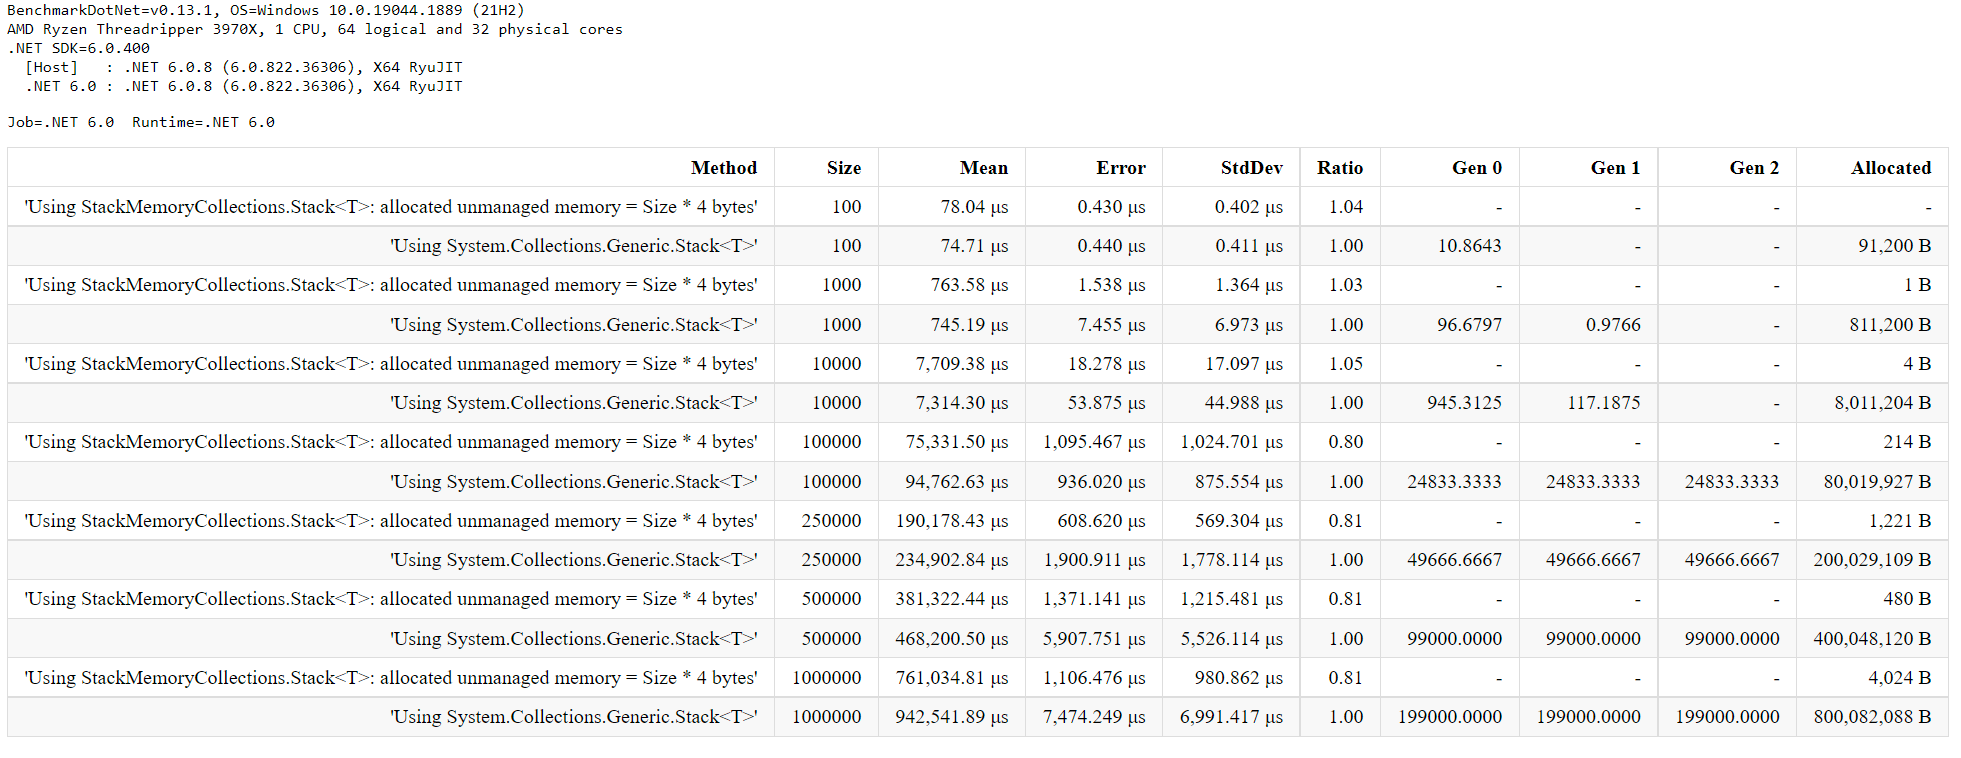
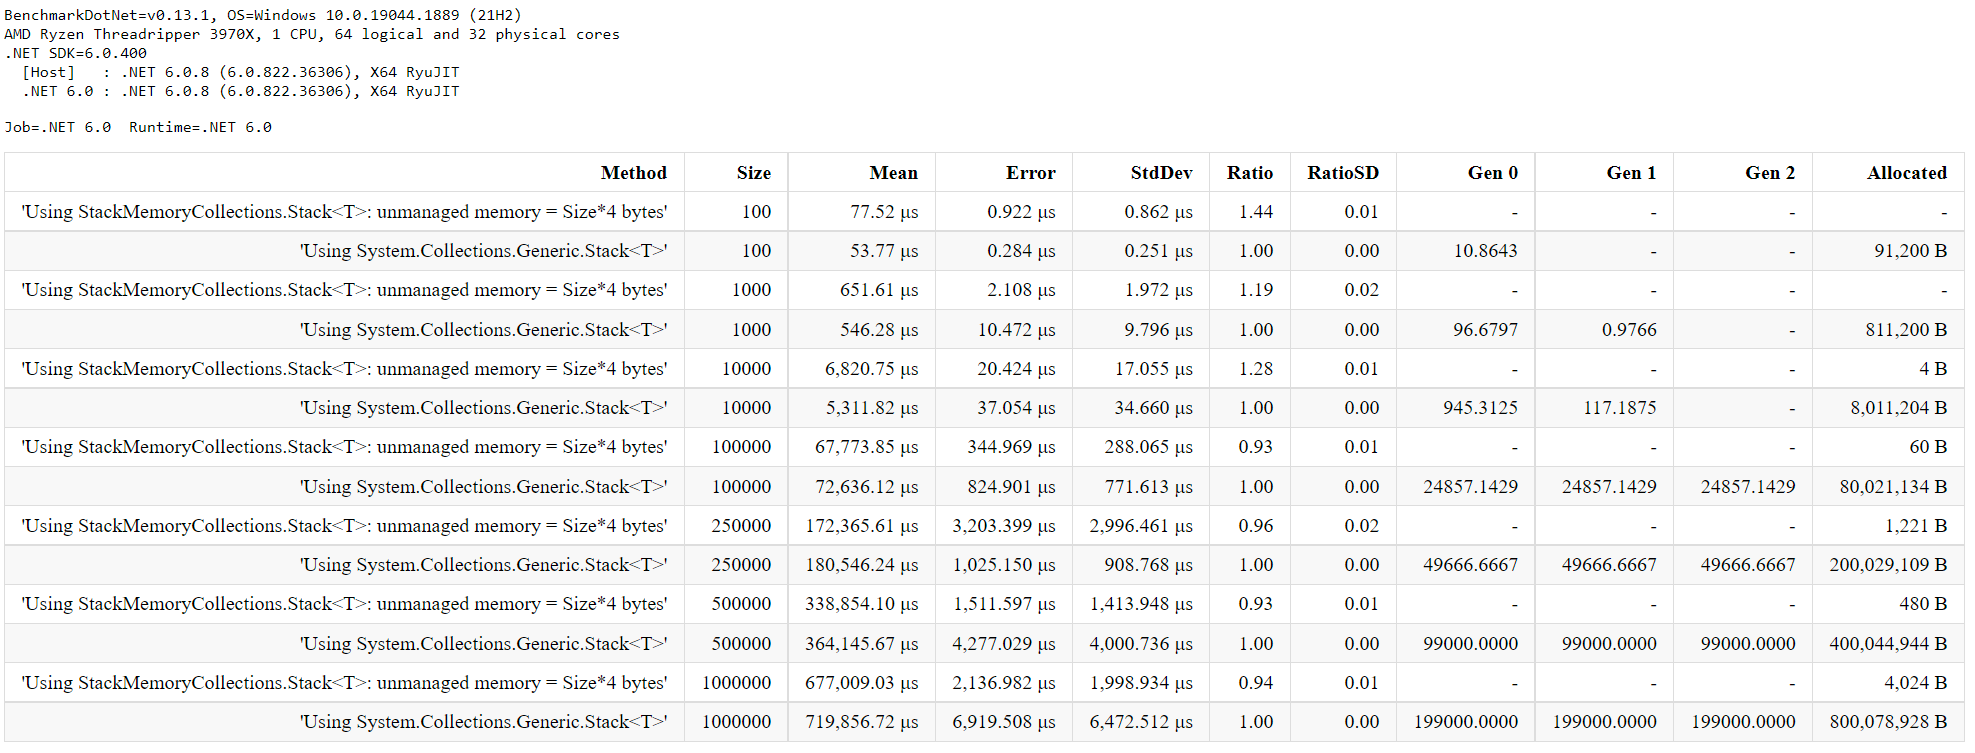
fix: memeory size

diff --git a/Src/Benchmarks/StackOfStructJob.cs b/Src/Benchmarks/StackOfStructJob.cs
@@ -1,6 +1,7 @@
 using BenchmarkDotNet.Attributes;
 using BenchmarkDotNet.Jobs;
 using StackMemoryCollections;
+using System.Runtime.InteropServices;
 
 namespace Benchmark
 {
@@ -19,19 +20,19 @@ namespace Benchmark
                 Int64 = int64;
             }
 
-            public int Int32;
             public long Int64;
+            public int Int32;
         }
 
         [Params(100, 1000, 10000, 100000, 250000, 500000, 1000000)]
         public int Size;
 
-        [Benchmark(Description = $"Using StackMemoryCollections.Stack<T>: unmanaged memory = Size*4 bytes")]
+        [Benchmark(Description = $"Using StackMemoryCollections.StackOfStruct<T>: unmanaged memory = Size * item size(~12) bytes")]
         public void StackMemory()
         {
             unsafe
             {
-                using (var memory = new StackMemory(sizeof(int) * (nuint)Size))
+                using (var memory = new StackMemory((nuint)Marshal.SizeOf<SimpleStruct>() * (nuint)Size))
                 {
                     for (int j = 0; j < 100; j++)
                     {

diff --git a/Src/Tests/TestStruct.cs b/Src/Tests/TestStruct.cs
@@ -1,4 +1,6 @@
-namespace Tests
+using System.Runtime.InteropServices;
+
+namespace Tests
 {
     internal struct TestStruct
     {
@@ -17,12 +19,11 @@
             _boolVal = !boolVal;
         }
 
-        public int Int32Val;
         public long Int64Val;
-        public bool BoolVal;
-
-        private int _int32Val;
         private long _int64Val;
+        public int Int32Val;
+        private int _int32Val;
+        public bool BoolVal;
         private bool _boolVal;
     }
 }
